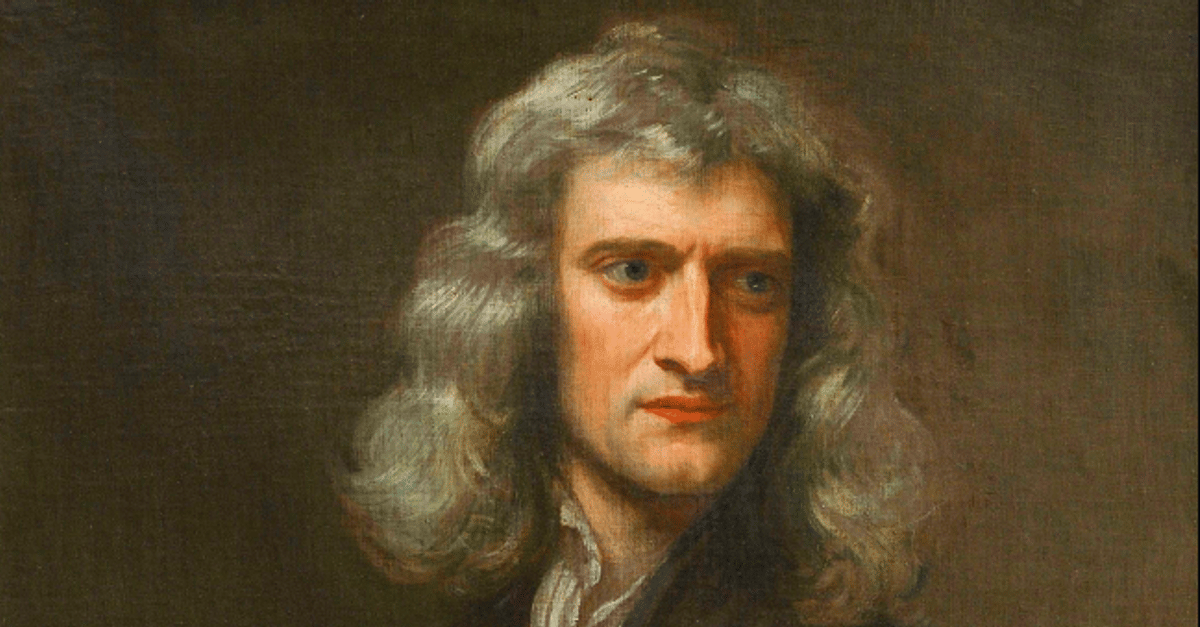
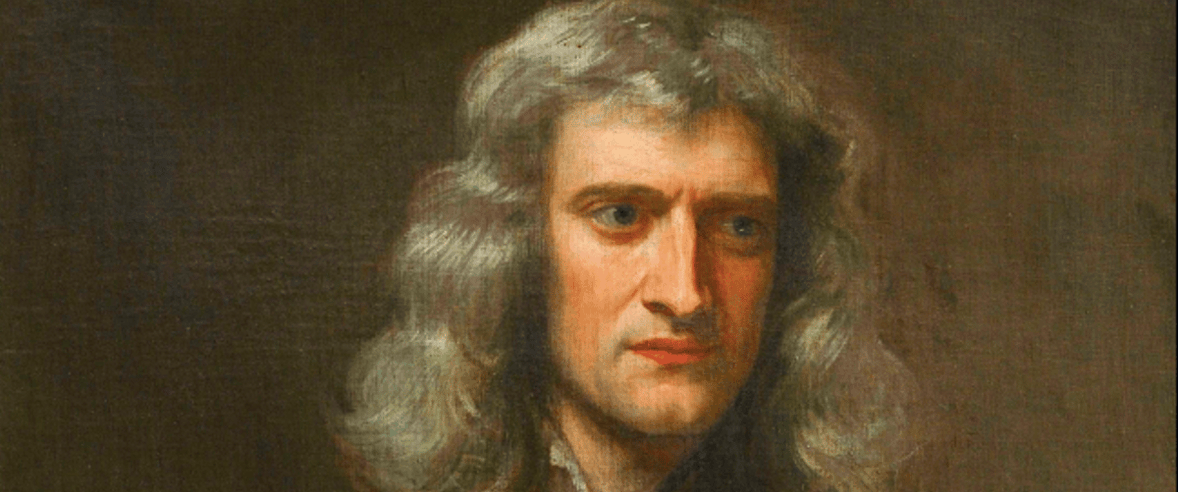
better navigation menu and header css
so, im getting started on improving the css. it was a good base, but it needed refining for sure.

first, i started with the naviagtion menu. i moved it out of the header to be its own thing (thats the culprit for the odd-looking edits to the html files). then i used the previous lab as a reference, but i did the styling myself in my own way with a unique hierarchy. it follows you when you scroll, each list element is a button, it shows an underline when you hover, and whichever page you are on has its button darkened (manually by giving that button the "current" id).

then i improved the header. i cropped the newton banner image and made the one for the homepage extra large. i also figured out how to use text shadow from mdn. im really happy with how it looks!

i also made sure each page's title was an h2 element (it was inconsistent before)

diff --git a/project-1/css/styles.css b/project-1/css/styles.css
@@ -30,10 +30,9 @@ p, h5 {
 }
 
 header {
-    text-align: center; /*the navigation menu looks aful but itll look better soon*/
+    text-align: center;
     background-color: rgba(60, 47, 19, 0.352);
     background-image: linear-gradient();
-    color: rgb(56, 52, 24);
 
     width: 80%;
     margin: 0 auto;
@@ -128,11 +127,51 @@ fieldset {
     display: block; /*makes the div elements within fieldset aligned in columns :D*/
 }
 
-/* TODO: customize all h1, h2, h3, p, whatever elements to not be the defaults! */
-
-
 /* text sizes */
 
 p {
     font-size: 20px;
+}
+
+/* navigation */
+nav {
+    display: inline-block;
+    position: sticky; /*sticks to the viewport at the top*/
+    top: 5px; /*sticky doesnt do anything without an assigned top value*/
+}
+nav > ul {
+    list-style: none; /*remove the dots*/
+    display: flex;
+}
+nav > ul > li {
+    padding: 2em;
+    background-color: rgba(0, 47, 88, 0.426);
+}
+nav > ul > li > a {
+    background-color: rgb(171, 220, 255);;
+    color: black;
+    
+    padding: 1em;
+    text-decoration: none;
+}
+nav > ul > li > a:hover {
+    text-decoration: underline;
+}
+nav > ul > li > a#current { /*the current tab for each page is set manually so i dont have to use js*/
+    background-color: rgb(0, 67, 126);
+    color: white;
+}
+
+header > h1 {
+    background-image: url("../images/NewtonBannerThin.png"); /*image source: World History Encyclopedia, cropped by me*/
+
+    margin: auto;
+
+    color: rgb(255, 246, 197);
+    text-shadow: 1px 1px 2px black;
+    font-size: 64px;
+}
+header > h1#large { /*for the home page, i wanted the banner to show more of newton's headshot*/
+    background-image: url("../images/NewtonBanner.png"); /*image source: World History Encyclopedia. also cropped by me*/
+    padding: 2.3em;
 }

diff --git a/project-1/index.html b/project-1/index.html
@@ -11,23 +11,22 @@
 
 	<body>
 		<header>
-            <img src="images/NewtonBanner.png" width="600" height="300" alt="Isaac Newton Banner" /> <!--image source: World History Encyclopedia--> <!--if I had more time I'd edit the image to be the correct size-->
-			<h1>Isaac Newton's Cool Website</h1>
-
-            <nav>
-				<ul>
-					<li><a href="index.html" title="Go to the Home page">Home</a></li>
-
-					<li><a href="gravity.html" title="Learn about what gravity is">What is It?</a></li>
-
-					<li><a href="purchase.html" title="Purchase the amazing papers">Purchase</a></li>
-
-					<li><a href="about.html" title="Learn about me, the amazing author, Isaac Newton">About the Author</a></li>
-					
-					<li><a href="support.html" title="Access customer support and author contact">Support</a></li>
-				</ul>
-			</nav>
+            <h1 id="large">Isaac Newton's Cool Website</h1>
 		</header>
+
+		<nav>
+			<ul>
+				<li><a id="current" href="index.html" title="Go to the Home page">Home</a></li>
+
+				<li><a href="gravity.html" title="Learn about what gravity is">What is It?</a></li>
+
+				<li><a href="purchase.html" title="Purchase the amazing papers">Purchase</a></li>
+
+				<li><a href="about.html" title="Learn about me, the amazing author, Isaac Newton">About the Author</a></li>
+				
+				<li><a href="support.html" title="Access customer support and author contact">Support</a></li>
+			</ul>
+		</nav>
 
 		<h2>WELCOME,</h2>
         <h4>To the OFFICIAL Isaac Newton Homepage....</h4>

diff --git a/project-1/about.html b/project-1/about.html
@@ -12,23 +12,23 @@
 	<body>
 		<header>
             <h1>Isaac Newton's Cool Website</h1>
-
-            <nav>
-				<ul>
-					<li><a href="index.html" title="Go to the Home page">Home</a></li>
-
-					<li><a href="gravity.html" title="Learn about what gravity is">What is It?</a></li>
-
-					<li><a href="purchase.html" title="Purchase the amazing papers">Purchase</a></li>
-
-					<li><a href="about.html" title="Learn about me, the amazing author, Isaac Newton">About the Author</a></li>
-					
-					<li><a href="support.html" title="Access customer support and author contact">Support</a></li>
-				</ul>
-			</nav>
 		</header>
 
-		<h2>The <strong>one and only...</strong></h2>
+		<nav>
+			<ul>
+				<li><a href="index.html" title="Go to the Home page">Home</a></li>
+
+				<li><a href="gravity.html" title="Learn about what gravity is">What is It?</a></li>
+
+				<li><a href="purchase.html" title="Purchase the amazing papers">Purchase</a></li>
+
+				<li><a id="current" href="about.html" title="Learn about me, the amazing author, Isaac Newton">About the Author</a></li>
+				
+				<li><a href="support.html" title="Access customer support and author contact">Support</a></li>
+			</ul>
+		</nav>
+
+		<h2>The <strong>One and Only...</strong></h2>
         <h4>Sir Isaac Newton</h4>
 
 		<main>

diff --git a/project-1/purchase.html b/project-1/purchase.html
@@ -12,24 +12,24 @@
 	<body>
 		<header>
 			<h1>Isaac Newton's Cool Website</h1>
-
-            <nav>
-				<ul>
-					<li><a href="index.html" title="Go to the Home page">Home</a></li>
-
-					<li><a href="gravity.html" title="Learn about what gravity is">What is It?</a></li>
-
-					<li><a href="purchase.html" title="Purchase the amazing papers">Purchase</a></li>
-
-					<li><a href="about.html" title="Learn about me, the amazing author, Isaac Newton">About the Author</a></li>
-
-					<li><a href="support.html" title="Access customer support and author contact">Support</a></li>
-				</ul>
-			</nav>
 		</header>
 
+		<nav>
+			<ul>
+				<li><a href="index.html" title="Go to the Home page">Home</a></li>
+
+				<li><a href="gravity.html" title="Learn about what gravity is">What is It?</a></li>
+
+				<li><a id="current" href="purchase.html" title="Purchase the amazing papers">Purchase</a></li>
+
+				<li><a href="about.html" title="Learn about me, the amazing author, Isaac Newton">About the Author</a></li>
+				
+				<li><a href="support.html" title="Access customer support and author contact">Support</a></li>
+			</ul>
+		</nav>
+
 		<div>
-			<h4>You know you want it.</h4>
+			<h2>You Know You Want It.</h2>
 
 			<main>
 				<section>

diff --git a/project-1/gravity.html b/project-1/gravity.html
@@ -11,22 +11,22 @@
 
 	<body>
 		<header>
-			<h1>Isaac Newton's Cool Website</h1>
-
-            <nav>
-				<ul>
-					<li><a href="index.html" title="Go to the Home page">Home</a></li>
-
-					<li><a href="gravity.html" title="Learn about what gravity is">What is It?</a></li>
-
-					<li><a href="purchase.html" title="Purchase the amazing papers">Purchase</a></li>
-
-					<li><a href="about.html" title="Learn about me, the amazing author, Isaac Newton">About the Author</a></li>
-					
-					<li><a href="support.html" title="Access customer support and author contact">Support</a></li>
-				</ul>
-			</nav>
+			<h1 id="withNewton">Isaac Newton's Cool Website</h1>
 		</header>
+
+		<nav>
+			<ul>
+				<li><a href="index.html" title="Go to the Home page">Home</a></li>
+
+				<li><a id="current" href="gravity.html" title="Learn about what gravity is">What is It?</a></li>
+
+				<li><a href="purchase.html" title="Purchase the amazing papers">Purchase</a></li>
+
+				<li><a href="about.html" title="Learn about me, the amazing author, Isaac Newton">About the Author</a></li>
+				
+				<li><a href="support.html" title="Access customer support and author contact">Support</a></li>
+			</ul>
+		</nav>
 
 		<h2>What on Earth is Gravity?</h2>
 

diff --git a/project-1/support.html b/project-1/support.html
@@ -12,24 +12,24 @@
 	<body>
 		<header>
 			<h1>Isaac Newton's Cool Website</h1>
-
-            <nav>
-				<ul>
-					<li><a href="index.html" title="Go to the Home page">Home</a></li>
-
-					<li><a href="gravity.html" title="Learn about what gravity is">What is It?</a></li>
-
-					<li><a href="purchase.html" title="Purchase the amazing papers">Purchase</a></li>
-
-					<li><a href="about.html" title="Learn about me, the amazing author, Isaac Newton">About the Author</a></li>
-
-					<li><a href="support.html" title="Access customer support and author contact">Support</a></li>
-				</ul>
-			</nav>
 		</header>
 
+		<nav>
+			<ul>
+				<li><a href="index.html" title="Go to the Home page">Home</a></li>
+
+				<li><a href="gravity.html" title="Learn about what gravity is">What is It?</a></li>
+
+				<li><a href="purchase.html" title="Purchase the amazing papers">Purchase</a></li>
+
+				<li><a href="about.html" title="Learn about me, the amazing author, Isaac Newton">About the Author</a></li>
+				
+				<li><a id="current" href="support.html" title="Access customer support and author contact">Support</a></li>
+			</ul>
+		</nav>
+
 		<div>
-			<h3>Support and Contact</h3>
+			<h2>Support and Contact</h2>
 
 			<main>
 				<section>
